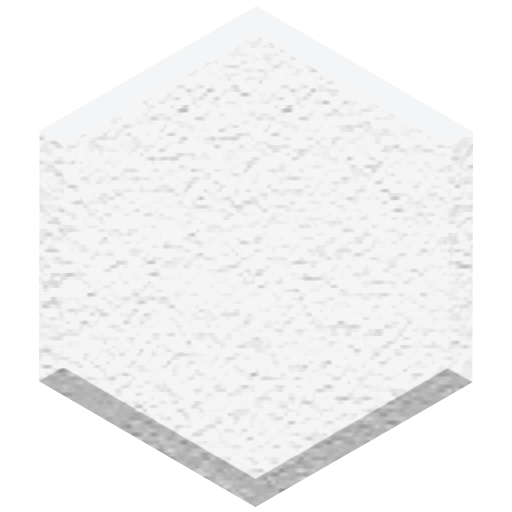
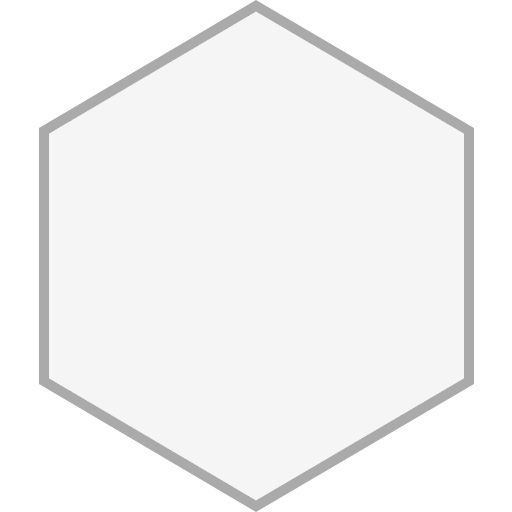
1_V_012 • Nouvelles tuiles pour le plateau
- Ajout des nouveaux designs de tuiles.

diff --git a/Pingouin/src/view/GameView.java b/Pingouin/src/view/GameView.java
@@ -24,9 +24,13 @@ public class GameView extends GraphicGame {
         game = g;
         setLayout(new GroupLayout(this));
         g.addPropertyChangeListener(this);
+
+        // Chargement des textures des tuiles.
         tiles = new Image[4];
-        tiles[0] = loadImage("/img/game/tiles/Tile0.png"); // TEMPORAIRE
-        setBackground(new Color(127, 127, 255, 255));
+        for (int i = 0; i < 4; i++) tiles[i] = loadImage("/img/game/tiles/Tile"+i+".png");
+
+        setOpaque(true);
+        setBackground(new Color(72, 127, 255, 255));
         setVisible(true);
         generateBoard();
     }
@@ -34,23 +38,22 @@ public class GameView extends GraphicGame {
     @Override
     void generateBoard() {
         int w = 100, h = 100; // Largeur et hauteur des tuiles à afficher.
-        for (int i = 0; i < 8; i++){
-            for (int j = 0; j < 8; j++) {
+        for(int i = 0; i < 8; i++){
+            for(int j = 0; j < 8; j++) {
+                JButton b = new JButton();
+                Tile t = game.getBoard().getTile(j,i);
+                b.setName(j + "," + i);
+                b.setHorizontalTextPosition(SwingConstants.CENTER);
+                b.setSize(w,h);
+                b.setBorderPainted(false);
+                b.setBackground(new Color(0,0,0,0));
                 if (i %2 == 1 || j < 7) {
-                    JButton b = new JButton();
-                    Tile t = game.getBoard().getTile(j,i);
-                    b.setName(j + "," + i);
-                    b.setHorizontalTextPosition(SwingConstants.CENTER);
-                    b.setSize(w,h);
-                    b.setBorderPainted(false);
-                    b.setBackground(new Color(0,0,0,0));
-                    b.setRolloverEnabled(false);
-                    b.setIcon(new ImageIcon(tiles[0].getScaledInstance(w, h, Image.SCALE_SMOOTH)));
-                    b.setText(""+t.getFishNumber());
-                    if(i%2 == 0) b.setLocation((w/2) + w*j,h*i);
-                    else b.setLocation( w*j,h*i);
-                    add(b);
+                    b.setIcon(new ImageIcon(tiles[t.getFishNumber()].getScaledInstance(w, h, Image.SCALE_SMOOTH)));
                 }
+                else b.setEnabled(false);
+                if(i%2 == 0) b.setLocation((w/2) + w*j,h*i);
+                else b.setLocation( w*j,h*i);
+                add(b);
             }
         }
     }
